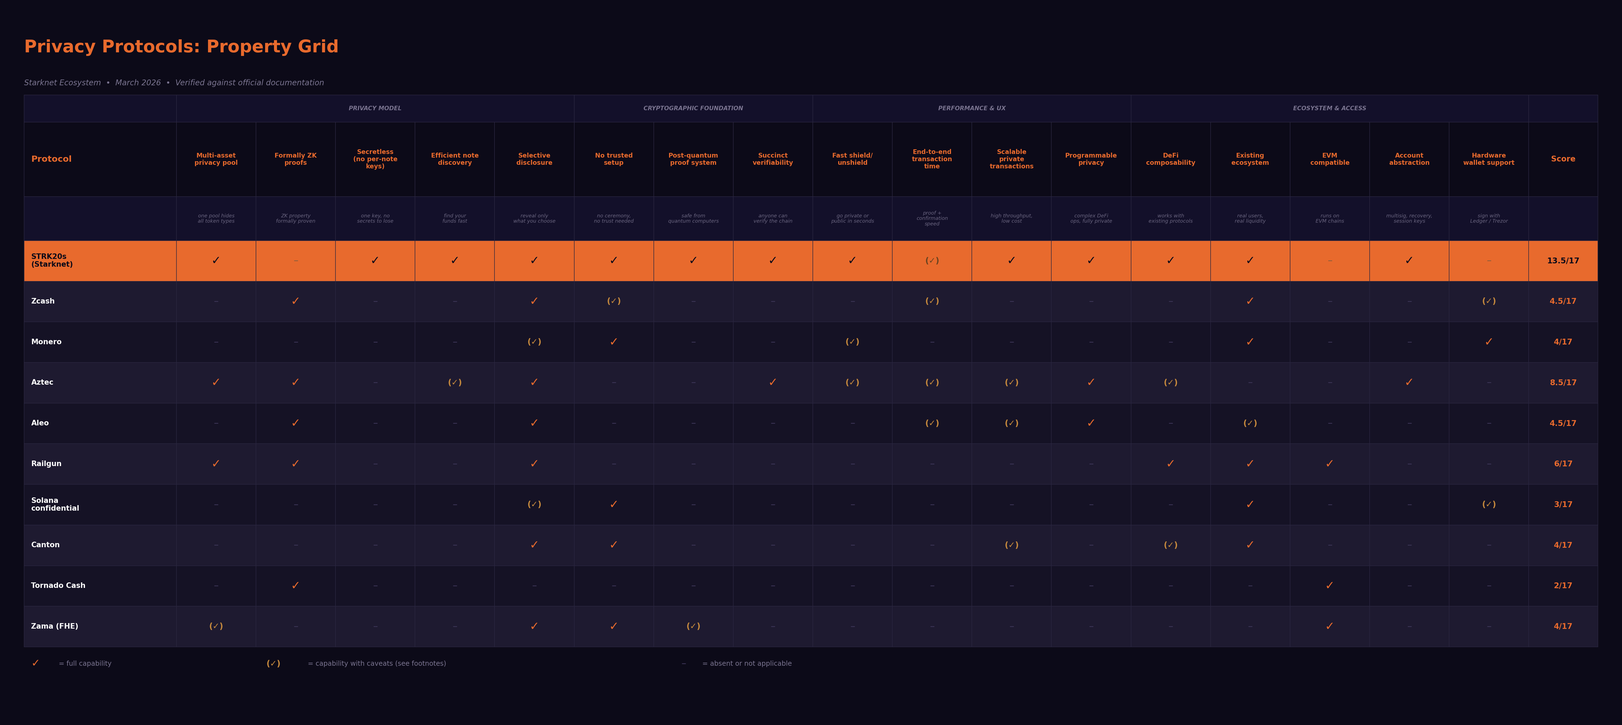
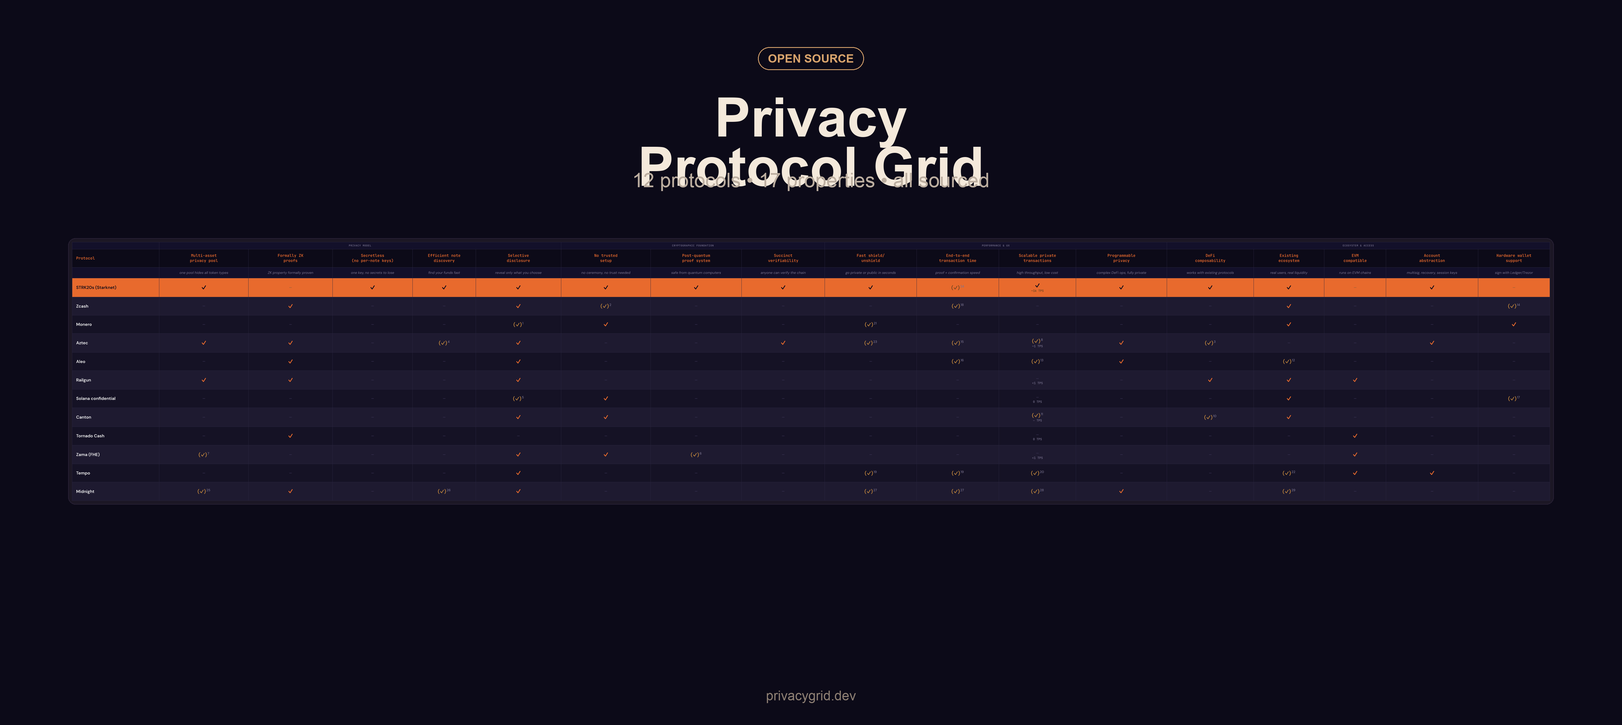
Add Midnight to the privacy protocol grid

diff --git a/docs/data.js b/docs/data.js
@@ -1,6 +1,6 @@
-// Website data source — 17 properties x 11 protocols
+// Website data source — 17 properties x 12 protocols
 
-const SUPERSCRIPTS = {1:"\u00B9",2:"\u00B2",3:"\u00B3",4:"\u2074",5:"\u2075",6:"\u2076",7:"\u2077",8:"\u2078",9:"\u2079",10:"\u00B9\u2070",11:"\u00B9\u00B9",12:"\u00B9\u00B2",13:"\u00B9\u00B3",14:"\u00B9\u2074",15:"\u00B9\u2075",16:"\u00B9\u2076",17:"\u00B9\u2077",18:"\u00B9\u2078",19:"\u00B9\u2079",20:"\u00B2\u2070",21:"\u00B2\u00B9",22:"\u00B2\u00B2",23:"\u00B2\u00B3",24:"\u00B2\u2074"};
+const SUPERSCRIPTS = {1:"\u00B9",2:"\u00B2",3:"\u00B3",4:"\u2074",5:"\u2075",6:"\u2076",7:"\u2077",8:"\u2078",9:"\u2079",10:"\u00B9\u2070",11:"\u00B9\u00B9",12:"\u00B9\u00B2",13:"\u00B9\u00B3",14:"\u00B9\u2074",15:"\u00B9\u2075",16:"\u00B9\u2076",17:"\u00B9\u2077",18:"\u00B9\u2078",19:"\u00B9\u2079",20:"\u00B2\u2070",21:"\u00B2\u00B9",22:"\u00B2\u00B2",23:"\u00B2\u00B3",24:"\u00B2\u2074",25:"\u00B2\u2075",26:"\u00B2\u2076",27:"\u00B2\u2077",28:"\u00B2\u2078",29:"\u00B2\u2079",30:"\u00B3\u2070"};
 
 // scalable: short subtext shown under the col-10 tick ("Scalable private transactions").
 // Unit is TPS for cross-protocol comparison. Shown only when the number is either
@@ -48,6 +48,9 @@ const fullProjects = [
   { name: "Tempo",
     ticks: [false, false, false, false, true, false, false, false, "partial", "partial", "partial", false, false, "partial", true, true, false],
     fnMap: {8: 19, 9: 19, 10: 20, 13: 22} },
+  { name: "Midnight",
+    ticks: ["partial", true, false, "partial", true, false, false, false, "partial", "partial", "partial", true, false, "partial", false, false, false],
+    fnMap: {0: 25, 3: 26, 8: 27, 9: 27, 10: 28, 13: 29} },
 ];
 
 const fullFootnotes = {
@@ -75,9 +78,14 @@ const fullFootnotes = {
   22: "major design partners (Stripe, Visa, Mastercard, Deutsche Bank, Anthropic, OpenAI) but mainnet just launched March 18, 2026 \u2014 live ecosystem still nascent",
   23: "~6s block times in Alpha Mainnet since March 31, 2026. shielding speed will improve as block times target 3\u20134s by late 2026",
   24: "~5s end-to-end from user perspective, but proof runs on wallet operator backend (48-core machine). Zcash Zashi generates proofs directly on mobile in ~5s. for an apples-to-apples comparison, proof generation is not yet on consumer hardware. mobile proving on the roadmap",
+  25: "supports shielded and unshielded assets plus multiple shielded token types, but the docs do not clearly establish one shared multi-asset anonymity pool across all assets",
+  26: "private local state plus the Midnight Indexer improve wallet and DApp data access, but the docs do not yet specify note-discovery complexity or guarantees",
+  27: "client-side proving is built into the wallet/proof stack and recent Midnight releases use ~6 second block production, but Midnight has not published an official private transfer latency benchmark for current mainnet",
+  28: "Midnight emphasizes programmable privacy, predictable resource costs, and scale, but no official private-transaction TPS or cost benchmark is published yet",
+  29: "genesis block created March 17, 2026; network declared live March 29, 2026. wallet, explorer, indexer, and partner integrations exist, but the live app ecosystem is still early",
 };
 
-// At-a-glance data — 6 properties x 11 protocols
+// At-a-glance data — 6 properties x 12 protocols
 const glanceProjects = [
   { name: "STRK20s (Starknet)", highlight: true,
     ticks: [true, true, true, true, true, "partial"],
@@ -112,6 +120,9 @@ const glanceProjects = [
   { name: "Tempo",
     ticks: ["partial", false, "partial", true, false, "partial"],
     fnMap: {0: 18, 2: 19, 5: 20} },
+  { name: "Midnight",
+    ticks: ["partial", "partial", "partial", true, false, "partial"],
+    fnMap: {0: 21, 1: 22, 2: 23, 5: 24} },
 ];
 
 const glanceFootnotes = {
@@ -135,33 +146,37 @@ const glanceFootnotes = {
   18: "opt-in privacy, not private by default. privacy cryptography not publicly documented. uses TIP-403 Policy Registry for issuer compliance and auditability",
   19: "sub-second finality on base layer via Simplex BFT consensus, but private transaction speed not separately benchmarked",
   20: "native account abstraction with passkeys (P256) and MetaMask at launch, but no hardware wallet path published for confidential transfers",
+  21: "hybrid public/private state and ZK proofs make Midnight privacy-first, but privacy is configurable rather than always-on and the docs do not describe one canonical multi-asset anonymity pool",
+  22: "Compact enables private, composable apps on Midnight itself, but it is not zero-integration composability with existing EVM or Starknet DeFi",
+  23: "client-side proving and ~6-second block production point to decent UX, but no official end-to-end latency benchmark is published for current mainnet",
+  24: "Lace integration is live in the developer stack and multiple self-custody wallet partners are announced, but privacy-transaction hardware-wallet flows are not yet clearly documented",
 };
 
 // Column definitions grouped by category
 const definitions = [
   { category: "Privacy Model", entries: [
-    { term: "Multi-asset privacy pool", def: "Single pool supports multiple token types. Observers can\u2019t tell which token a note belongs to. STRK20s, Aztec, and Railgun have full multi-asset pools. Zama supports confidential ERC-20s via fhEVM but ecosystem is nascent. Aleo is asset-agnostic but each program has isolated state. Zcash/Monero are single-asset. Tornado Cash had fragmented pools. Canton uses access-control privacy." },
+    { term: "Multi-asset privacy pool", def: "Single pool supports multiple token types. Observers can\u2019t tell which token a note belongs to. STRK20s, Aztec, and Railgun have full multi-asset pools. Midnight supports multiple shielded token types, but the docs do not yet establish one shared anonymity pool. Zama supports confidential ERC-20s via fhEVM but ecosystem is nascent. Aleo is asset-agnostic but each program has isolated state. Zcash/Monero are single-asset. Tornado Cash had fragmented pools. Canton uses access-control privacy." },
     { term: "Formally ZK proofs", def: "The proof system has the mathematical zero-knowledge property: the proof guarantees that no information about the secret data leaks to the verifier. Zcash (Groth16/Halo 2), Aztec (PLONK/Honk), Aleo (Varuna), Railgun (Groth16), and Tornado Cash (Groth16) use formally ZK proof systems. STRK20s uses STARKs (not yet formally ZK). Monero uses ring signatures. Solana uses ElGamal. Canton uses access control." },
     { term: "Secretless (no per-note keys)", def: "Users handle a single signing key (or none, via AA). No per-note secrets to manage or lose. STRK20s derives all keys from the Starknet account key via account abstraction. Aztec requires 4 separate key pairs. Aleo requires private key + view key. Railgun requires spending + viewing keys. Monero requires spend + view keys." },
-    { term: "Efficient note discovery", def: "Recipients discover funds in time proportional to their own activity. STRK20s uses onchain indexed storage with shared secrets. Aztec uses a tagging mechanism but requires pre-registering senders. Zcash requires scanning all blocks. Railgun and Aleo use standard record/UTXO scanning." },
-    { term: "Selective disclosure", def: "Users can optionally reveal transaction history to a chosen third party without affecting other users\u2019 privacy. STRK20s has third-party viewing keys. Zcash has full viewing keys. Aztec has viewing key pairs. Aleo has view keys plus zPass. Railgun has scoped viewing keys plus PPOI. Canton has sub-transaction privacy with full auditability." },
+    { term: "Efficient note discovery", def: "Recipients discover funds in time proportional to their own activity. STRK20s uses onchain indexed storage with shared secrets. Aztec uses a tagging mechanism but requires pre-registering senders. Midnight separates public onchain state from private local state and ships an indexer, but note-discovery guarantees are not yet documented precisely. Zcash requires scanning all blocks. Railgun and Aleo use standard record/UTXO scanning." },
+    { term: "Selective disclosure", def: "Users can optionally reveal transaction history to a chosen third party without affecting other users\u2019 privacy. STRK20s has third-party viewing keys. Zcash has full viewing keys. Aztec has viewing key pairs. Aleo has view keys plus zPass. Railgun has scoped viewing keys plus PPOI. Midnight exposes selective disclosure through witness functions. Canton has sub-transaction privacy with full auditability." },
   ]},
   { category: "Cryptographic Foundation", entries: [
-    { term: "No trusted setup", def: "Proof system requires no trusted setup ceremony. STARKs (Starknet) require none. Zcash Orchard uses Halo 2 (no setup) but Sapling still has one. Monero\u2019s Bulletproofs+ and Solana\u2019s ElGamal/Bulletproofs require none. Aleo uses Varuna (requires universal SRS). Aztec\u2019s PLONK uses a universal updatable SRS. Railgun and Tornado Cash use Groth16 (per-circuit ceremonies)." },
+    { term: "No trusted setup", def: "Proof system requires no trusted setup ceremony. STARKs (Starknet) require none. Zcash Orchard uses Halo 2 (no setup) but Sapling still has one. Monero\u2019s Bulletproofs+ and Solana\u2019s ElGamal/Bulletproofs require none. Aleo uses Varuna (requires universal SRS). Aztec\u2019s PLONK uses a universal updatable SRS. Midnight\u2019s current stack references a Midnight SRS. Railgun and Tornado Cash use Groth16 (per-circuit ceremonies)." },
     { term: "Post-quantum proof system", def: "Underlying cryptography resists quantum computing attacks. STARKs (hash-based) are post-quantum by design. Zama\u2019s TFHE is lattice-based (LWE), considered PQ-resistant but less battle-tested. All SNARK/elliptic curve systems are vulnerable to quantum attacks." },
-    { term: "Succinct verifiability", def: "Anyone can verify chain integrity quickly and trustlessly on a small device. ZK rollups (Starknet, Aztec) have this. L1s like Solana, Zcash, Monero, Aleo, and Canton do not. Railgun runs on L1s without succinct verification." },
+    { term: "Succinct verifiability", def: "Anyone can verify chain integrity quickly and trustlessly on a small device. ZK rollups (Starknet, Aztec) have this. L1s like Solana, Zcash, Monero, Aleo, Midnight, and Canton do not. Railgun runs on L1s without succinct verification." },
   ]},
   { category: "Performance & UX", entries: [
-    { term: "Fast shield/unshield", def: "How quickly a user can move between public and private states. STRK20s: ~2s block + sub-5s proof. Zcash: ~75s block bottleneck. Monero: always private, no opt-out. Aztec: ~6s blocks in Alpha Mainnet (since March 31, 2026). Railgun: 1-hour mandatory standby (PPOI). Solana: feature disabled. Zama: FHE much slower." },
-    { term: "End-to-end transaction time", def: "Benchmark is Zcash Zashi (~5s on mobile, proof on device). STRK20s: ~5s but proof on wallet operator backend. Mobile proving on roadmap. Aztec: PXE proving still optimizing. Aleo: resource-intensive, outsourceable. Zama: FHE much slower." },
-    { term: "Scalable private transactions", def: "High throughput and low cost for private operations. A TPS figure appears under the tick only when it's demonstrated or structurally inherent. Theoretical maxes, targets, and unsourced estimates are intentionally omitted so the number you see can be trusted. Shown figures: Starknet ~1k TPS (demonstrated on mainnet); Aztec ~1 TPS (Alpha Mainnet, footnote 8); Railgun <1 TPS (years of live Ethereum usage, constrained by ~700k–1M gas per Railgun tx); Solana confidential 0 TPS (feature disabled on mainnet); Canton ∞ TPS (horizontal scaling via network-of-networks, no global bottleneck by architecture); Tornado Cash 0 TPS (protocol defunct); Zama <1 TPS (FHE benchmarks show operations 100–10,000× slower than plaintext). Intentionally omitted: Zcash and Monero (theoretical-max math only, historical average far below ceiling), Aleo (no published private-tx benchmark), Tempo (100k+ TPS is a target on Reth, not demonstrated)." },
-    { term: "Programmable privacy", def: "Ability to prove complex logic privately, verified cheaply onchain. STRK20s: Cairo + Stwo enables proving entire block logic. Aztec: Noir + PXE. Aleo: Leo but no cross-program composability. Zcash: simple transfers only. Tornado Cash: fixed-denomination deposits were the ceiling." },
+    { term: "Fast shield/unshield", def: "How quickly a user can move between public and private states. STRK20s: ~2s block + sub-5s proof. Zcash: ~75s block bottleneck. Monero: always private, no opt-out. Aztec: ~6s blocks in Alpha Mainnet (since March 31, 2026). Midnight uses client-side proving on a roughly 6-second block cadence, but no official mainnet shield/unshield benchmark is published. Railgun: 1-hour mandatory standby (PPOI). Solana: feature disabled. Zama: FHE much slower." },
+    { term: "End-to-end transaction time", def: "Benchmark is Zcash Zashi (~5s on mobile, proof on device). STRK20s: ~5s but proof on wallet operator backend. Mobile proving on roadmap. Aztec: PXE proving still optimizing. Midnight keeps private data local and supports client-side proving, but no official end-to-end latency benchmark is published. Aleo: resource-intensive, outsourceable. Zama: FHE much slower." },
+    { term: "Scalable private transactions", def: "High throughput and low cost for private operations. A TPS figure appears under the tick only when it's demonstrated or structurally inherent. Theoretical maxes, targets, and unsourced estimates are intentionally omitted so the number you see can be trusted. Shown figures: Starknet ~1k TPS (demonstrated on mainnet); Aztec ~1 TPS (Alpha Mainnet, footnote 8); Railgun <1 TPS (years of live Ethereum usage, constrained by ~700k–1M gas per Railgun tx); Solana confidential 0 TPS (feature disabled on mainnet); Canton ∞ TPS (horizontal scaling via network-of-networks, no global bottleneck by architecture); Tornado Cash 0 TPS (protocol defunct); Zama <1 TPS (FHE benchmarks show operations 100–10,000× slower than plaintext). Intentionally omitted: Zcash and Monero (theoretical-max math only, historical average far below ceiling), Aleo (no published private-tx benchmark), Midnight (no published private-tx benchmark yet), Tempo (100k+ TPS is a target on Reth, not demonstrated)." },
+    { term: "Programmable privacy", def: "Ability to prove complex logic privately, verified cheaply onchain. STRK20s: Cairo + Stwo enables proving entire block logic. Aztec: Noir + PXE. Midnight: Compact plus hybrid public/private state. Aleo: Leo but no cross-program composability. Zcash: simple transfers only. Tornado Cash: fixed-denomination deposits were the ceiling." },
   ]},
   { category: "Ecosystem & Access", entries: [
     { term: "DeFi composability", def: "Existing DeFi contracts require zero custom integration for private transactions. STRK20s and Railgun work with existing live protocols. Aztec and Canton have DeFi within their own ecosystems. Aleo has no composability between private applications." },
-    { term: "Existing ecosystem", def: "Live DeFi protocols, real liquidity, real users already present. Starknet, Zcash, Monero, Railgun, Solana, and Canton all have established ecosystems. Aleo mainnet since Sep 2024, DeFi nascent. Aztec in Alpha. Zama nascent." },
+    { term: "Existing ecosystem", def: "Live DeFi protocols, real liquidity, real users already present. Starknet, Zcash, Monero, Railgun, Solana, and Canton all have established ecosystems. Aleo mainnet since Sep 2024, DeFi nascent. Midnight mainnet launched in March 2026, ecosystem early. Aztec in Alpha. Zama nascent." },
     { term: "EVM compatible", def: "Privacy protocol runs on or integrates natively with EVM chains. Railgun on Ethereum/Polygon/Arbitrum/BSC. Tornado Cash was Ethereum-native. Zama\u2019s fhEVM is EVM-compatible. STRK20s runs on Cairo VM. Aztec uses Noir. Aleo uses Leo." },
     { term: "Account abstraction", def: "Privacy works with multisig, session keys, social recovery at the protocol level. STRK20s and Aztec have native protocol-level AA. Others require standard key management." },
-    { term: "Hardware wallet support", def: "Users can sign privacy transactions with a hardware wallet. Monero: Ledger full shielded. Zcash: Trezor Orchard, Ledger transparent only. Starknet: Ledger for standard txs, STRK20s privacy txs not yet available on HW wallets." },
+    { term: "Hardware wallet support", def: "Users can sign privacy transactions with a hardware wallet. Monero: Ledger full shielded. Zcash: Trezor Orchard, Ledger transparent only. Starknet: Ledger for standard txs, STRK20s privacy txs not yet available on HW wallets. Midnight has announced Keystone and other wallet partners, but privacy-transaction hardware flows are not yet clearly documented." },
   ]},
 ];

diff --git a/docs/index.html b/docs/index.html
@@ -4,8 +4,8 @@
 <meta charset="UTF-8">
 <meta name="viewport" content="width=device-width, initial-scale=1.0">
 <title>Privacy Protocol Grid | Crypto Privacy Protocols Overview</title>
-<meta name="description" content="Open overview of privacy protocols in crypto: STRK20, Zcash, Monero, Aztec, Aleo, Railgun, Tempo, and more. 11 protocols, 17 properties, all sourced.">
-<meta name="keywords" content="privacy protocol, zero knowledge, ZK proofs, STRK20, Zcash, Monero, Aztec, Aleo, Railgun, Tempo, Starknet, ERC20 privacy, crypto privacy, blockchain privacy">
+<meta name="description" content="Open overview of privacy protocols in crypto: STRK20, Zcash, Monero, Aztec, Aleo, Railgun, Midnight, and more. 12 protocols, 17 properties, all sourced.">
+<meta name="keywords" content="privacy protocol, zero knowledge, ZK proofs, STRK20, Zcash, Monero, Aztec, Aleo, Railgun, Midnight, Tempo, Starknet, ERC20 privacy, crypto privacy, blockchain privacy">
 <link rel="canonical" href="https://privacygrid.dev/">
 
 <!-- Structured Data -->
@@ -15,7 +15,7 @@
   "@type": "WebApplication",
   "name": "Privacy Protocol Grid",
   "url": "https://privacygrid.dev",
-  "description": "Open overview of privacy protocols in crypto. 11 protocols, 17 properties, all sourced.",
+  "description": "Open overview of privacy protocols in crypto. 12 protocols, 17 properties, all sourced.",
   "applicationCategory": "Research Tool",
   "operatingSystem": "Web",
   "creator": {
@@ -31,7 +31,7 @@
 
 <!-- Open Graph -->
 <meta property="og:title" content="Privacy Protocol Grid">
-<meta property="og:description" content="Open overview of privacy protocols in crypto: STRK20, Zcash, Monero, Aztec, Aleo, Railgun, Tempo. 11 protocols, 17 properties, all sourced.">
+<meta property="og:description" content="Open overview of privacy protocols in crypto: STRK20, Zcash, Monero, Aztec, Aleo, Railgun, Midnight, Tempo. 12 protocols, 17 properties, all sourced.">
 <meta property="og:image" content="https://privacygrid.dev/privacy_grid_image.png">
 <meta property="og:image:width" content="5855">
 <meta property="og:image:height" content="2618">
@@ -42,9 +42,9 @@
 <!-- Twitter Card -->
 <meta name="twitter:card" content="summary_large_image">
 <meta name="twitter:title" content="Privacy Protocol Grid">
-<meta name="twitter:description" content="11 protocols. 17 properties. All sourced.">
+<meta name="twitter:description" content="12 protocols. 17 properties. All sourced.">
 <meta name="twitter:image" content="https://privacygrid.dev/privacy_grid_image.png">
-<meta name="twitter:image:alt" content="Privacy Protocol Grid comparing 11 protocols across 17 properties">
+<meta name="twitter:image:alt" content="Privacy Protocol Grid comparing 12 protocols across 17 properties">
 
 <link rel="icon" type="image/svg+xml" href="favicon.svg">
 <link rel="preconnect" href="https://fonts.googleapis.com">
@@ -62,7 +62,7 @@
         <span class="hero-dot"></span>
         <span>Open source</span>
         <span class="hero-sep">/</span>
-        <span>11 protocols</span>
+        <span>12 protocols</span>
         <span class="hero-sep">/</span>
         <span>17 properties</span>
       </div>
@@ -88,7 +88,7 @@
     <span class="status-sep">&bull;</span>
     <span>ALL ENTRIES SOURCED AND VERIFIABLE</span>
     <span class="status-sep">&bull;</span>
-    <span>MARCH 2026</span>
+    <span>APRIL 2026</span>
   </div>
 </div>
 
@@ -373,7 +373,7 @@
 <!-- Tooltip -->
 <div class="tooltip" id="tooltip"></div>
 
-<script src="data.js?v=8"></script>
+<script src="data.js?v=9"></script>
 <script src="app.js?v=4"></script>
 <script>
 // Bloomberg-style countdown to mainnet (April 20, 2026)
@@ -398,17 +398,17 @@
 <div class="sr-only">
 <section>
   <h2>How privacy protocols compare</h2>
-  <p>As of March 2026, there are eleven major privacy protocols in crypto, each taking a fundamentally different approach. This grid evaluates them across 17 technical properties in four categories: privacy model, cryptographic foundation, performance and UX, and ecosystem access.</p>
+  <p>As of April 2026, there are twelve major privacy protocols in crypto, each taking a fundamentally different approach. This grid evaluates them across 17 technical properties in four categories: privacy model, cryptographic foundation, performance and UX, and ecosystem access.</p>
   <h3>Privacy model</h3>
-  <p>STRK20s on Starknet, Aztec, and Railgun all support multi-asset privacy pools, meaning multiple token types share a single anonymity set. Zcash and Monero are single-asset only. STRK20s is the only protocol with a secretless design where users manage a single signing key via account abstraction, with no per-note secrets to lose. Most other protocols require two or more key pairs. For selective disclosure, STRK20s, Zcash, Aztec, Aleo, and Railgun all offer viewing key mechanisms that let users reveal transaction history to a chosen third party.</p>
+  <p>STRK20s on Starknet, Aztec, and Railgun all support multi-asset privacy pools, meaning multiple token types share a single anonymity set. Midnight supports multiple shielded token types, but its docs do not yet establish one canonical shared pool. Zcash and Monero are single-asset only. STRK20s is the only protocol with a secretless design where users manage a single signing key via account abstraction, with no per-note secrets to lose. Most other protocols require two or more key pairs. For selective disclosure, STRK20s, Zcash, Aztec, Aleo, Railgun, and Midnight all offer ways to reveal transaction history to a chosen third party.</p>
   <h3>Cryptographic foundation</h3>
   <p>STRK20s uses STARKs, which require no trusted setup and are post-quantum resistant by design (hash-based). Zcash's Orchard upgrade uses Halo 2 (no setup), but its older Sapling pool still relies on a trusted ceremony. Aztec uses PLONK with a universal updatable SRS. Railgun and Tornado Cash use Groth16, which requires per-circuit ceremonies. On post-quantum security, only STARKs (Starknet) and TFHE lattice-based cryptography (Zama) are considered resistant to quantum attacks.</p>
   <h3>Performance and UX</h3>
-  <p>STRK20s offers the fastest shielding: ~2s block confirmation plus sub-5s proof generation. Zcash is bottlenecked by ~75s block times. Aztec runs ~6s blocks in Alpha Mainnet (launched March 31, 2026). Railgun imposes a mandatory 1-hour standby after shielding. Monero is always private by default but has no opt-out to a transparent state. For scalability, Starknet handles roughly 1,000 TPS today with a target of 10,000+, while Aztec processes about 1 TPS in its Alpha phase.</p>
+  <p>STRK20s offers the fastest shielding: ~2s block confirmation plus sub-5s proof generation. Zcash is bottlenecked by ~75s block times. Aztec runs ~6s blocks in Alpha Mainnet (launched March 31, 2026). Midnight uses client-side proving on a roughly 6-second block cadence, but has not yet published a public mainnet latency benchmark. Railgun imposes a mandatory 1-hour standby after shielding. Monero is always private by default but has no opt-out to a transparent state. For scalability, Starknet handles roughly 1,000 TPS today, while Aztec processes about 1 TPS in its Alpha phase.</p>
   <h3>Ecosystem and DeFi</h3>
-  <p>STRK20s and Railgun are the only protocols where existing DeFi contracts require zero custom integration for private transactions. Railgun works across Ethereum, Polygon, Arbitrum, and BSC. Aztec and Canton have DeFi within their own ecosystems but are not composable with Ethereum or Starknet DeFi. Starknet, Zcash, Monero, Solana, and Canton all have established ecosystems with real liquidity and users.</p>
+  <p>STRK20s and Railgun are the only protocols where existing DeFi contracts require zero custom integration for private transactions. Railgun works across Ethereum, Polygon, Arbitrum, and BSC. Aztec, Canton, and Midnight have privacy-capable application environments within their own ecosystems but are not composable with existing Ethereum or Starknet DeFi. Starknet, Zcash, Monero, Solana, and Canton all have established ecosystems with real liquidity and users, while Midnight is newly live and still early.</p>
   <h3>What each protocol is best suited for</h3>
-  <p>STRK20s (Starknet) covers the widest range of properties: multi-asset privacy, no trusted setup, post-quantum proofs, fast shielding, DeFi composability, programmable privacy, and account abstraction. It is designed to add privacy to any ERC-20 token on Starknet. Zcash pioneered zero-knowledge proofs for payments and has the longest track record. Monero offers always-on privacy with strong anonymity but limited programmability. Aztec is building a full programmable privacy L2 with Noir and its own execution environment. Railgun brings privacy to existing EVM DeFi through its shielded pool. Aleo enables private computation with Leo but lacks cross-program composability. Zama takes a different approach with fully homomorphic encryption, computing on encrypted data server-side.</p>
+  <p>STRK20s (Starknet) covers the widest range of properties: multi-asset privacy, no trusted setup, post-quantum proofs, fast shielding, DeFi composability, programmable privacy, and account abstraction. It is designed to add privacy to any ERC-20 token on Starknet. Zcash pioneered zero-knowledge proofs for payments and has the longest track record. Monero offers always-on privacy with strong anonymity but limited programmability. Aztec is building a full programmable privacy L2 with Noir and its own execution environment. Midnight is a privacy-first programmable chain built around hybrid public/private state and selective disclosure, with a live but still early ecosystem. Railgun brings privacy to existing EVM DeFi through its shielded pool. Aleo enables private computation with Leo but lacks cross-program composability. Zama takes a different approach with fully homomorphic encryption, computing on encrypted data server-side.</p>
 </section>
 <section itemscope itemtype="https://schema.org/FAQPage">
   <h2>Frequently asked questions</h2>

diff --git a/README.md b/README.md
@@ -8,7 +8,7 @@ This grid exists so that builders, researchers, and users can see where things s
 
 ## What's in the grid
 
-**11 protocols** across **17 properties** in 4 categories:
+**12 protocols** across **17 properties** in 4 categories:
 
 | Category | Properties |
 |---|---|
@@ -19,7 +19,7 @@ This grid exists so that builders, researchers, and users can see where things s
 
 ### Protocols covered
 
-STRK20s (Starknet) · Zcash · Monero · Aztec · Aleo · Railgun · Solana Confidential · Canton · Tornado Cash · Zama (FHE) · Tempo
+STRK20s (Starknet) · Zcash · Monero · Aztec · Aleo · Railgun · Solana Confidential · Canton · Tornado Cash · Zama (FHE) · Tempo · Midnight
 
 **Missing a protocol?** Open a PR to add it.
 
